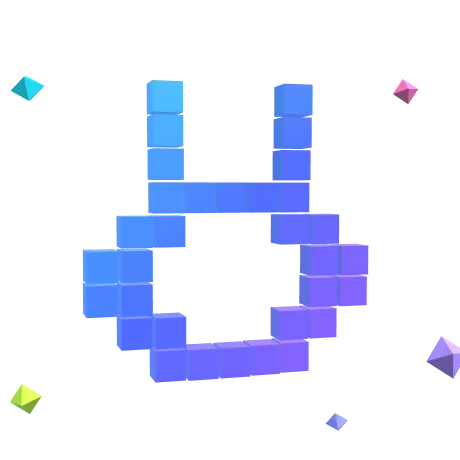
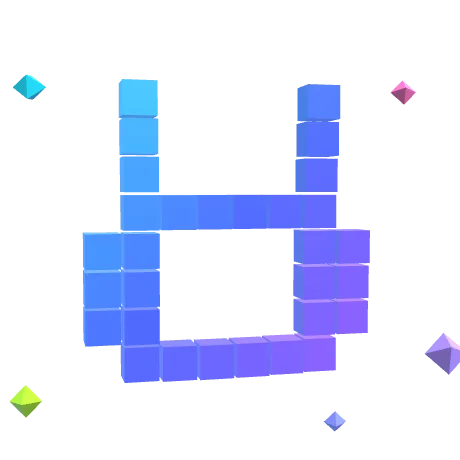
Family section: v6 engine and fallbacks, no section number, grids without a lonely last item

diff --git a/resources/css/home.css b/resources/css/home.css
@@ -246,7 +246,7 @@
 .hop-home .lx-q h3 { font-size: 17px; margin-bottom: 8px; }
 
 /* 12 family */
-.hop-home .lx-family { display: grid; grid-template-columns: repeat(4, minmax(0, 1fr)); gap: 14px; }
+.hop-home .lx-family { display: grid; grid-template-columns: repeat(5, minmax(0, 1fr)); gap: 14px; align-items: stretch; }
 .hop-home .lx-fam { display: grid; justify-items: center; gap: 4px; padding: 22px 18px 20px; border: 1px solid var(--home-line); border-radius: 22px; background: var(--home-panel); text-align: center; min-width: 0; }
 .hop-home .lx-fam .h-art { max-width: 190px; margin: 0 0 10px; }
 .hop-home .lx-fam b { font-size: 17px; letter-spacing: -.01em; }
@@ -299,3 +299,16 @@
 html.lenis, html.lenis body { height: auto; }
 .lenis.lenis-smooth { scroll-behavior: auto !important; }
 .lenis.lenis-stopped { overflow: hidden; }
+
+/* Family tiles: five across; a 6-column bento (3 + 2) on tablets; two columns with the last tile spanning both on phones. No lonely last tile. */
+@media (max-width: 1099px) {
+    .hop-home .lx-family { grid-template-columns: repeat(6, minmax(0, 1fr)); }
+    .hop-home .lx-fam { grid-column: span 2; }
+    .hop-home .lx-fam:nth-child(n + 4) { grid-column: span 3; }
+}
+@media (max-width: 640px) {
+    .hop-home .lx-family { grid-template-columns: repeat(2, minmax(0, 1fr)); }
+    .hop-home .lx-fam, .hop-home .lx-fam:nth-child(n + 4) { grid-column: auto; }
+    .hop-home .lx-fam:last-child:nth-child(odd) { grid-column: 1 / -1; }
+}
+@media (min-width: 641px) and (max-width: 980px) { .hop-home .lx-gates > :last-child:nth-child(odd) { grid-column: 1 / -1; } }

diff --git a/public/hop-home/hop-hero3d.js b/public/hop-home/hop-hero3d.js
@@ -44,11 +44,11 @@
     biohop: ['.#######.', '#########', '##wwwww##', '#########', '##wwwww##', '#########', '##www####', '#########', '.#######.'],
     // the PixelHop mark: the pixel rabbit
     pixelhop: ['.#....#.', '.#....#.', '.##..##.', '.######.', '##.##.##', '########', '########', '.######.'],
-    // the FileHop mark (v3): a document with a folded corner and a white arrow down
-    filehop: ['######..', '#######.', '###ww###', '###ww###', '#wwwwww#', '##wwww##', '###ww###', '########']
+    // the FileHop mark (v4): a document with a folded corner and a white arrow down
+    filehop: ['######..', '###ww##.', '###ww###', '###ww###', '#wwwwww#', '##wwww##', '###ww###', '########']
   };
-  // the LinkHop mark: a rabbit head, two tall ears over a ring-shaped face
-  MAPS.linkhop = ['..#...#..', '..#...#..', '..#...#..', '..#####..', '.##...##.', '##.....##', '##.....##', '.##...##.', '..#####..'];
+  // the LinkHop mark (v6, candidate C): two ears over a ring-shaped face, 8x8 like the other pixel marks
+  MAPS.linkhop = ['.#....#.', '.#....#.', '.#....#.', '.######.', '##....##', '##....##', '##....##', '.######.'];
   var STOPS = {
     notehop: [[.639, .902, .208], [.133, .827, .933], [.545, .361, .965]],
     hub: [[.13, .83, .93], [.55, .36, .97], [.96, .28, .65]],

diff --git a/resources/views/partials/home-experience.blade.php b/resources/views/partials/home-experience.blade.php
@@ -221,8 +221,8 @@
 {{-- 12 family: every other app as its own 3D mark; the flat mark stays without WebGL --}}
 <section id="family" class="lx" aria-labelledby="family-title">
     <div class="lx-wrap">
-        <div class="lx-head"><p class="h-label"><span class="n">12</span> · <span>HOP</span></p><h2 id="family-title"><span><em>{{ __('HOP family') }}</em></span></h2><p class="h-sub"><span>{{ __('One free HOP ID signs you in to every app.') }}</span></p></div>
-        <div class="lx-family" data-lk-family>@foreach (collect(\Hop\Ui\Assets::family('linkhop'))->reject(fn ($app) => $app['current']) as $app)<article class="lx-fam"><figure class="h-art"><img src="{{ $app['icons']['mark']['url'] }}" alt="" width="120" height="120" loading="lazy"><canvas data-hop-hero="{{ $app['slug'] }}" tabindex="0" aria-label="{{ __('Drag or use arrow keys to rotate') }}"></canvas></figure><b>{{ $app['name'] }}</b><a href="{{ $app['url'] }}">{{ parse_url($app['url'], PHP_URL_HOST) }} ↗</a></article>@endforeach</div>
+        <div class="lx-head"><h2 id="family-title"><span><em>{{ __('HOP family') }}</em></span></h2><p class="h-sub"><span>{{ __('One free HOP ID signs you in to every app.') }}</span></p></div>
+        <div class="lx-family" data-lk-family>@foreach (collect(\Hop\Ui\Assets::family('linkhop'))->reject(fn ($app) => $app['current']) as $app)<article class="lx-fam"><figure class="h-art"><picture><source srcset="{{ asset('hop-home/home/'.$app['slug'].'-dark.webp') }}" media="(prefers-color-scheme: dark)"><img src="{{ asset('hop-home/home/'.$app['slug'].'-light.webp') }}" alt="" width="120" height="120" loading="lazy"></picture><canvas data-hop-hero="{{ $app['slug'] }}" tabindex="0" aria-label="{{ __('Drag or use arrow keys to rotate') }}"></canvas></figure><b>{{ $app['name'] }}</b><a href="{{ $app['url'] }}">{{ parse_url($app['url'], PHP_URL_HOST) }} ↗</a></article>@endforeach</div>
     </div>
 </section>
 

diff --git a/tests/Feature/FamilySectionTest.php b/tests/Feature/FamilySectionTest.php
@@ -1,0 +1,12 @@
+<?php
+
+test('the home page family section uses the hop-assets v6 engine and has no section numbering', function () {
+    $html = $this->get('/')->assertOk()->getContent();
+    preg_match('~<h2 id="family-title".*?</h2>~s', $html, $head);
+    preg_match('~<section[^>]*aria-labelledby="family-title".*?</section>~s', $html, $section);
+
+    expect($section[0] ?? '')->toContain('data-hop-hero="filehop"')->toContain('data-hop-hero="notehop"')->not->toContain('h-label')
+        ->not->toContain('· <span>HOP</span>');
+    // The vendored engine is the v6 file byte for byte; a private edit must go to hop-assets first.
[1 lines of base64/hex data omitted]
+});

diff --git a/CHANGELOG.md b/CHANGELOG.md
@@ -8,6 +8,9 @@ and this project adheres to [Semantic Versioning](https://semver.org/spec/v2.0.0
 ## [Unreleased]
 
 ### Changed
+- The "Part of the HOP family" section on the home page uses the hop-assets v6 3D engine (byte-identical copy, so the LinkHop and BioHop marks are the new ones) and the v6 WebP fallbacks for every app, FileHop included; the section number and eyebrow are gone. The tiles are five across on wide screens, a 3 + 2 bento on tablets and two columns with the last tile spanning both on phones, so no tile sits alone on the last row. The three content-warning gates on the LinkHop home page do the same at tablet width.
+
+### Changed
 - Every app shows the family row as the first row inside its footer, for everyone and in both looks: the HOP ID mark and "Part of Hop Easy Link" (linking to hel.ink). "Part of" is translated in all nine languages; the name stays in English. It replaces the strip that only the Clean style showed.
 - The footer no longer has a language row; the language menu in the top bar is the one place to switch. The copyright line is right-aligned on desktop and centred on phones.
 - Signing out sends the person to the hub with `return=<this app's home>`, so the hub's chained logout can bring them back here instead of to the hub's home.
